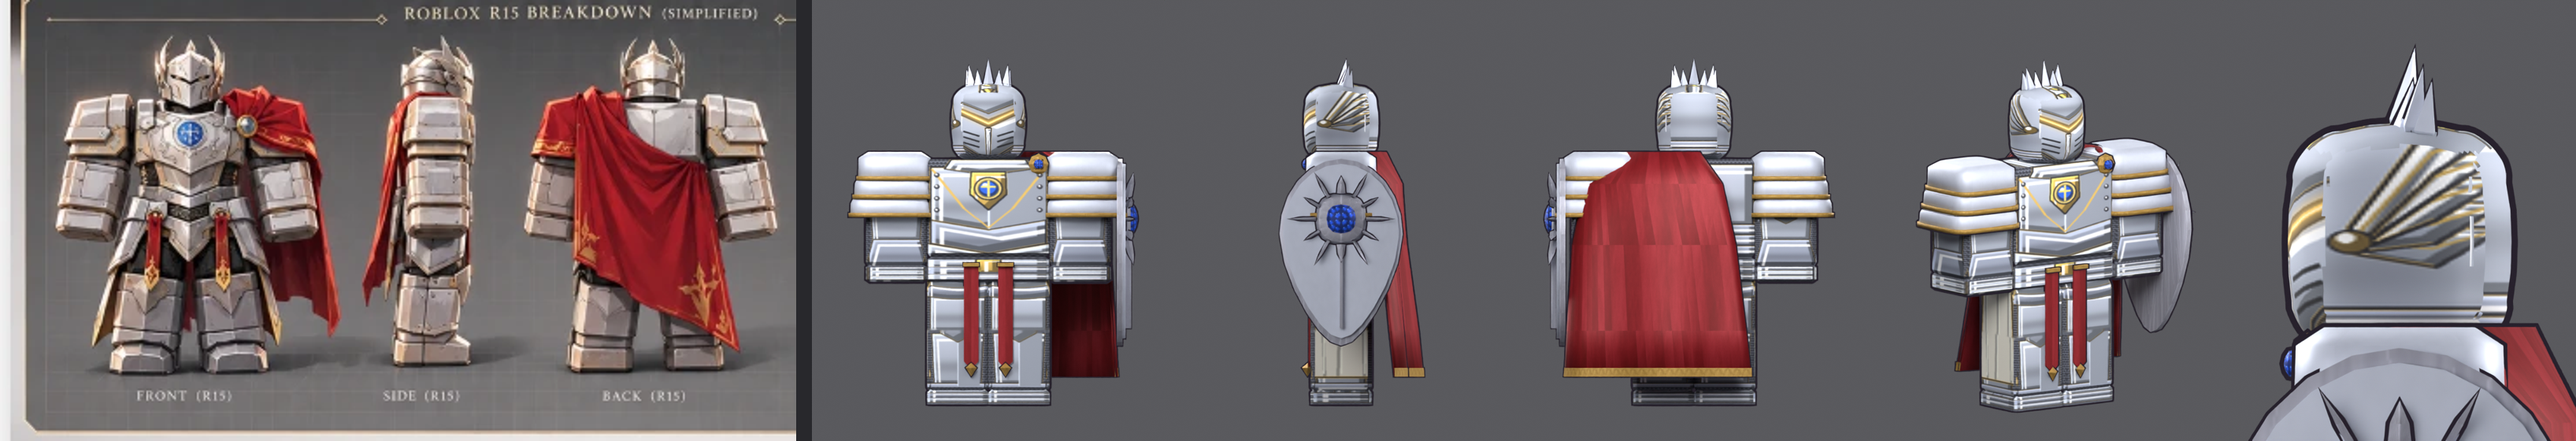
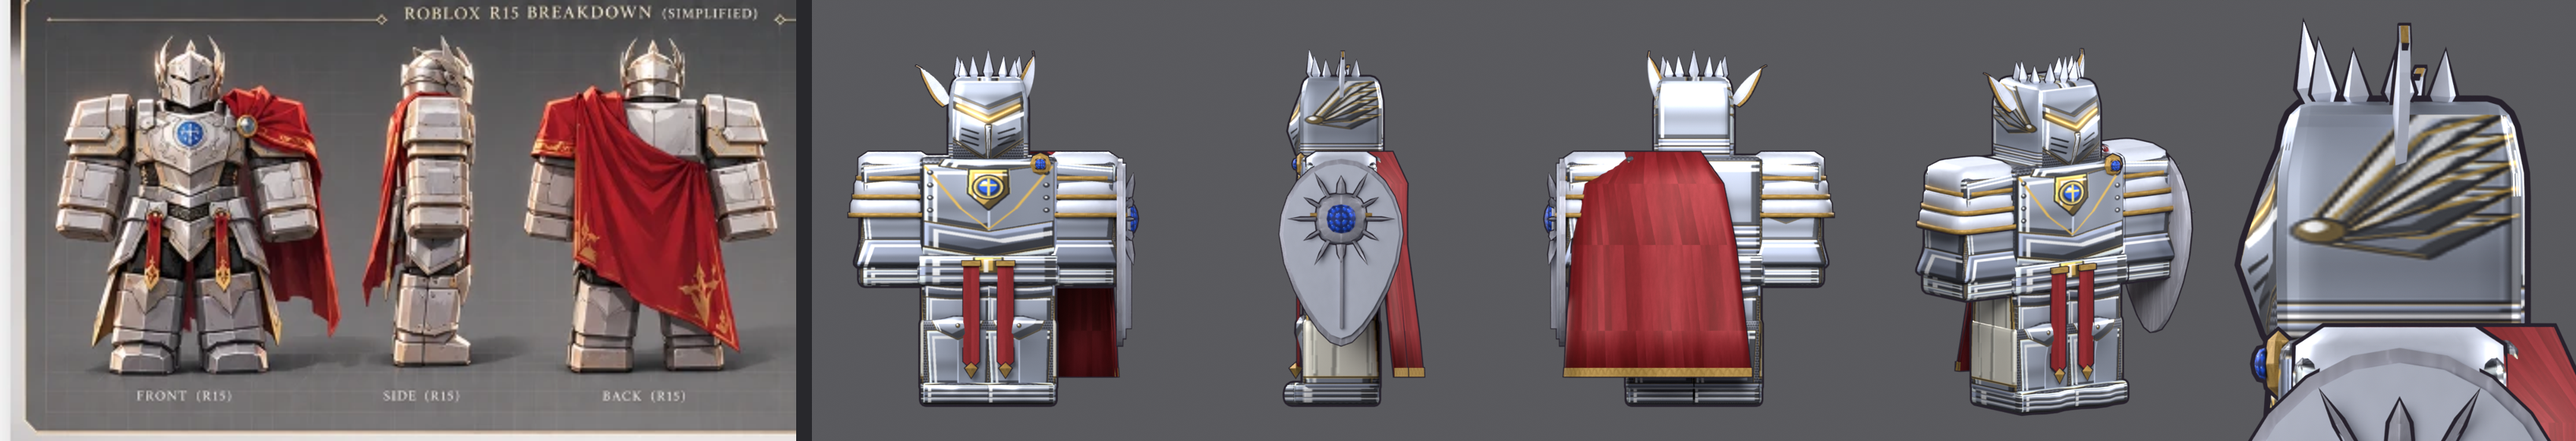
White Knight: chunky crisp armour blocks per part (bulkier than the body), deeper chrome shading, crown of spikes and side horns on the helm
Claude-Session: https://claude.ai/code/session_01Taf5Dxh3vpdHaMyavsAi7T

diff --git a/cyclops/sculpt.py b/cyclops/sculpt.py
@@ -199,3 +199,70 @@ def white(part):
 
 
 BUILDERS = {"white": white}
+
+
+def face_profile(bm, shape, depth, z_peak, z_lo, z_hi, width=0.32):
+    """Shape the front of a helm as seen from the side: '>' (two straight slopes meeting at
+    z_peak) or ')' (one convex arc). The whole front plane moves, so the chin stays forward."""
+    def prof(z):
+        if z < z_lo or z > z_hi:
+            return 0.0
+        if shape == ">":
+            t = 1 - abs(z - z_peak) / ((z_peak - z_lo) if z < z_peak else (z_hi - z_peak))
+        else:
+            t = math.sin(math.pi * (z - z_lo) / (z_hi - z_lo))
+        return depth * max(0.0, t)
+
+    def fn(co, n):
+        if co.y > 0:
+            return Vector()
+        wy = min(1.0, (-co.y / 0.45)) ** 1.5
+        return Vector((0, -prof(co.z) * gauss(co.x * co.x, width) * wy, 0))
+    deform(bm, fn)
+
+
+def block(part, dims, bevel=0.1, cuts=6, center=(0, 0, 0)):
+    """A crisp armour block: a box with small rounded edges (not a balloon)."""
+    bm = style2.rounded_box(Vector(dims), bevel, center)
+    bmesh.ops.subdivide_edges(bm, edges=list(bm.edges), cuts=cuts, use_grid_fill=True)
+    bm.normal_update()
+    return bm
+
+
+def white_box(part):
+    """White Knight after the Paladin Knight R15 sheet: every part a chunky, crisp
+    armour block, bulkier than the body; detail is painted (artpaint.white_knight)."""
+    k = kind_of(part)
+    if part == "Head":
+        bm = block(part, (1.3, 1.36, 1.4), bevel=0.14, cuts=8, center=(0, 0, 0.06))
+        taper_top(bm, 0.35, 0.76, 0.12)
+        face_profile(bm, ">", 0.2, -0.1, -0.64, 0.45, width=0.34)
+        return bm
+    if part == "UpperTorso":
+        bm = block(part, (2.26, 1.32, 1.72), bevel=0.12, cuts=8)
+        keel(bm, 0.07, 0.25, 0.1, 0.8)
+        return bm
+    if part == "LowerTorso":
+        return block(part, (2.32, 1.38, 0.5), bevel=0.08, cuts=4)
+    if k == "UpperArm":
+        return block(part, (1.16, 1.16, 1.2), bevel=0.1, cuts=5)
+    if k == "LowerArm":
+        bm = block(part, (1.18, 1.18, 1.08), bevel=0.1, cuts=6)
+        flare(bm, -0.12, -0.54, 0.2)  # big flared gauntlet cuff
+        return bm
+    if k == "Hand":
+        return block(part, (1.22, 1.22, 0.44), bevel=0.1, cuts=3)
+    if k == "UpperLeg":
+        return block(part, (1.18, 1.22, 1.24), bevel=0.1, cuts=5)
+    if k == "LowerLeg":
+        bm = block(part, (1.22, 1.26, 1.22), bevel=0.1, cuts=6)
+        bulge(bm, (0, -0.63, 0.42), 0.26, 0.12)  # knee cop
+        return bm
+    if k == "Foot":
+        bm = block(part, (1.2, 1.4, 0.36), bevel=0.08, cuts=4, center=(0, -0.08, 0.02))
+        keel(bm, 0.18, 0.22, 0.0, 0.3)
+        return bm
+    raise KeyError(part)
+
+
+BUILDERS["white_box"] = white_box

diff --git a/cyclops/outfits/refknights.py b/cyclops/outfits/refknights.py
@@ -266,21 +266,23 @@ def white_cape(name, glow):
                       (z + h / 2, top, top * 0.95, {"dx": cx})], "plate_white", p=5.0)
             trim(ua, z - h / 2 + 0.03, w / 2 + 0.025, w / 2 * 0.96 + 0.025, "gold", h=0.07, dx=cx, p=5.0)
     h = o("Head")
-    for k in range(7):  # crown of crest spikes
-        a = math.radians(-90 + 180 * k / 6)
-        x, y = 0.3 * math.sin(a), 0.12 - 0.3 * math.cos(a) * 0.4
-        h.spike((x, y, 0.5), (x * 0.5, 0.15, 1), 0.38 + (0.18 if k == 3 else 0.08 * (k % 2)), 0.08, "plate_white",
-                sides=4)
+    for k in range(9):  # a crown of spikes round the top edge of the helm
+        a = math.radians(-120 + 240 * k / 8)
+        x, y = 0.5 * math.sin(a), -0.5 * math.cos(a)
+        h.spike((x * 0.92, y * 0.92, 0.7), (x * 0.25, y * 0.25, 1), 0.34 + (0.16 if k == 4 else 0.06 * (k % 2)), 0.08,
+                "plate_white", sides=4)
+    for s in (1, -1):  # curved horns rising from the sides
+        sweep(h, (s * 0.6, 0.0, 0.35), (s * 0.5, 0.1, 1), 0.85, 0.2, 40, "plate_white", edge="gold", flip=s < 0)
     lt = o("LowerTorso")
     for x in (-0.28, 0.28):  # red tabard strips with gold diamond tips
-        lt.cloth([x - 0.12, x, x + 0.12], 0.1, [-1.5, -1.62, -1.5], -0.53, "cloth_royal", thick=0.04)
-        lt.spike((x, -0.55, -1.55), (0, 0, -1), 0.2, 0.09, "gold", sides=4)
-        lt.box((0.26, 0.05, 0.06), "gold", pos=(x, -0.56, 0.08))
+        lt.cloth([x - 0.13, x, x + 0.13], 0.12, [-1.5, -1.62, -1.5], -0.72, "cloth_royal", thick=0.04)
+        lt.spike((x, -0.74, -1.55), (0, 0, -1), 0.22, 0.1, "gold", sides=4)
+        lt.box((0.3, 0.06, 0.08), "gold", pos=(x, -0.74, 0.1))
     t = o("UpperTorso")
-    blob(t, (0.82, -0.5, 0.72), (0.17, 0.08, 0.17), "gold", sides=10, rings=4)  # brooch
-    lens(t, (0.82, -0.57, 0.72), (0, -1, 0), 0.08, 0.08, 0.06, "gem_blue", n=8)
+    blob(t, (0.85, -0.66, 0.72), (0.18, 0.08, 0.18), "gold", sides=10, rings=4)  # brooch
+    lens(t, (0.85, -0.73, 0.72), (0, -1, 0), 0.09, 0.09, 0.06, "gem_blue", n=8)
     lofted_cape(o, dict(cape="cloth_royal", lining="cloth_royal", trim="gold", trim2="gold", gem="gem_blue", clasps=False,
-                        cape_rings=[(0.92, 1.1, 0.12, 0.62, (5, 125)), (0.4, 1.8, 0.4, 0.6, (15, 100)),
+                        cape_rings=[(0.92, 1.2, 0.1, 0.74, (5, 125)), (0.4, 1.85, 0.42, 0.66, (15, 100)),
                                     (-0.6, 2.0, 0.62, 0.42, (20, 86)), (-2.0, 2.1, 0.74, 0.44, (24, 82)),
                                     (-2.75, 2.15, 0.8, 0.46, (26, 80))]))
     return o

diff --git a/cyclops/artpaint.py b/cyclops/artpaint.py
@@ -28,7 +28,7 @@ def mix(a, b, t):
     return tuple(int(a[i] + (b[i] - a[i]) * t) for i in range(3))
 
 
-def plate(p, part, face, pts, base, dark=0.55, light=1.32, chrome=True, spec=True, ink=INK, ink_w=3, depth=0.1,
+def plate(p, part, face, pts, base, dark=0.42, light=1.5, chrome=True, spec=True, ink=INK, ink_w=3, depth=0.1,
           trim=None, trim_w=0):
     """Paint one armour plate (polygon pts) with metal shading and an ink outline."""
     q = [p.at(part, face, u, v) for u, v in pts]
@@ -154,8 +154,8 @@ def white_knight():
         kw.setdefault("trim", (222, 182, 92))
         kw.setdefault("trim_w", 4)
         return plate(*args, **kw)
-    S = (176, 183, 198)       # silver
-    S2 = (150, 158, 176)      # darker silver for under-plates
+    S = (160, 168, 186)       # silver
+    S2 = (124, 132, 152)      # darker silver for under-plates
     gold, blue = (222, 182, 92), (40, 100, 230)
     glow, core = (255, 205, 105), (255, 250, 230)
     for part in style2.PARTS:  # under-layer: dark mail / arming cloth

diff --git a/cyclops/roster2.py b/cyclops/roster2.py
@@ -791,6 +791,7 @@ def white_knight():
     blocky R15 body like artwork (artpaint.py); geometry is only the red cape over the left
     shoulder, the holy greatsword and the shield."""
     ch = Character("KnightWhite", glow=GOLD_GLOW, weapon="RadiantGreatsword", shield=True)
+    ch.armor = "white_box"
     ch.painter = artpaint.PAINTERS["white"]()
     ch.outfit = refknights.white_cape(ch.name, GOLD_GLOW)
     refknights.white_shield(ch.outfit)
